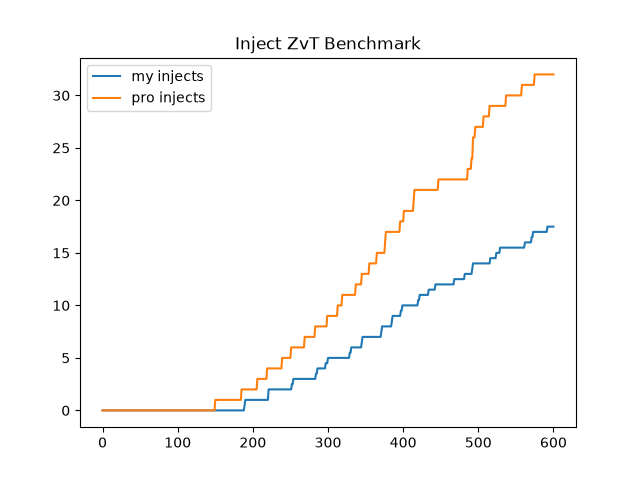
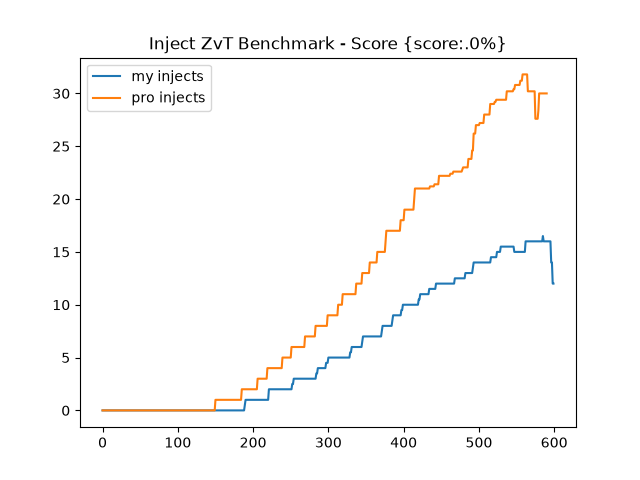
save

diff --git a/src/9_final_unspent_benchmark.py b/src/9_final_unspent_benchmark.py
@@ -2,49 +2,52 @@ from utils import *
 import pandas as pd
 import matplotlib.pyplot as plt
 
-my_df = local.read.csv("4_my_inject_transform", 'interim')
+my_df = local.read.csv("8_my_unspent_transform", 'interim')
 my_terran_df = my_df.query('opponent_race == "Terran"')
-my_terran_aggregated_data = my_terran_df.groupby('second')['inject_count'].quantile(0.50)
+my_terran_aggregated_data = my_terran_df.groupby('second')['unspent_amount'].quantile(0.50)
 my_terran_aggregated_data
 
-pro_df = local.read.csv("4_pro_inject_transform", 'interim')
+pro_df = local.read.csv("8_pro_unspent_transform", 'interim')
 pro_terran_df = pro_df.query('opponent_race == "Terran"')
-pro_terran_aggregated_data = pro_terran_df.groupby('second')['inject_count'].quantile(0.80)
+pro_terran_aggregated_data = pro_terran_df.groupby('second')['unspent_amount'].quantile(0.20)
 pro_terran_aggregated_data
 
 plt.plot(my_terran_aggregated_data)
 plt.plot(pro_terran_aggregated_data)
-plt.legend(['my injects', 'pro injects'])
-plt.title("Inject ZvT Benchmark")
-plt.savefig("../data/output/my_inject_zvt_benchmark.png")
+score = sum(pro_terran_aggregated_data) / sum(my_terran_aggregated_data)
+plt.legend(['my cumulative unspent resources', 'pro cumulative unspent resources'])
+plt.title(f"Unspent ZvT Benchmark - Score {score:.0%}")
+plt.savefig("../data/output/my_unspent_zvt_benchmark.png")
 plt.clf()
 
 my_zerg_df = my_df.query('opponent_race == "Zerg"')
-my_zerg_aggregated_data = my_zerg_df.groupby('second')['inject_count'].quantile(0.50)
+my_zerg_aggregated_data = my_zerg_df.groupby('second')['unspent_amount'].quantile(0.50)
 my_zerg_aggregated_data
 
 pro_zerg_df = pro_df.query('opponent_race == "Zerg"')
-pro_zerg_aggregated_data = pro_zerg_df.groupby('second')['inject_count'].quantile(0.80)
+pro_zerg_aggregated_data = pro_zerg_df.groupby('second')['unspent_amount'].quantile(0.20)
 pro_zerg_aggregated_data
 
 plt.plot(my_zerg_aggregated_data)
 plt.plot(pro_zerg_aggregated_data)
-plt.legend(['my injects', 'pro injects'])
-plt.title("Inject ZvZ Benchmark")
-plt.savefig("../data/output/my_inject_zvz_benchmark.png")
+score = sum(pro_zerg_aggregated_data) / sum(my_zerg_aggregated_data)
+plt.legend(['my cumulative unspent resources', 'pro cumulative unspent resources'])
+plt.title(f"Unspent ZvZ Benchmark - Score {score:.0%}")
+plt.savefig("../data/output/my_unspent_zvz_benchmark.png")
 plt.clf()
 
 my_protoss_df = my_df.query('opponent_race == "Protoss"')
-my_protoss_aggregated_data = my_protoss_df.groupby('second')['inject_count'].quantile(0.50)
+my_protoss_aggregated_data = my_protoss_df.groupby('second')['unspent_amount'].quantile(0.50)
 my_protoss_aggregated_data
 
 pro_protoss_df = pro_df.query('opponent_race == "Protoss"')
-pro_protoss_aggregated_data = pro_protoss_df.groupby('second')['inject_count'].quantile(0.80)
+pro_protoss_aggregated_data = pro_protoss_df.groupby('second')['unspent_amount'].quantile(0.20)
 pro_protoss_aggregated_data
 
 plt.plot(my_protoss_aggregated_data)
 plt.plot(pro_protoss_aggregated_data)
-plt.legend(['my injects', 'pro injects'])
-plt.title("Inject ZvP Benchmark")
-plt.savefig("../data/output/my_inject_zvp_benchmark.png")
+score = sum(pro_protoss_aggregated_data) / sum(my_protoss_aggregated_data)
+plt.legend(['my cumulative unspent resources', 'pro cumulative unspent resources'])
+plt.title(f"Unspent ZvP Benchmark - Score {score:.0%}")
+plt.savefig("../data/output/my_unspent_zvp_benchmark.png")
 plt.clf()

diff --git a/src/4_transform_injects.py b/src/4_transform_injects.py
@@ -12,7 +12,6 @@ dfs = []
 for game_number in pro_df.game_number.unique():
     pro_df_one_game = pro_df.query(f'game_number == {game_number}')
     input_data = list(pro_df_one_game.sort_values(by='inject_time')['inject_time'].values)
-    # print(pro_df_one_game)
 
     data_i = []
     cumulative_count = []
@@ -32,15 +31,14 @@ for game_number in pro_df.game_number.unique():
     pro_data_cumulative_df['inject_count'] = cumulative_count
     pro_data_cumulative_df['opponent_race'] = pro_df_one_game.iloc[0]['opponent_race']
     dfs.append(pro_data_cumulative_df)
-pro_df = pd.concat(dfs, axis='index', ignore_index=True)
-local.write.csv(pro_df, '4_pro_inject_transform')
+pro_df_output = pd.concat(dfs, axis='index', ignore_index=True)
+local.write.csv(pro_df_output, '4_pro_inject_transform')
 
 
 dfs = []
 for game_number in my_df.game_number.unique():
     my_df_one_game = my_df.query(f'game_number == {game_number}')
-    input_data = list(pro_df_one_game.sort_values(by='inject_time')['inject_time'].values)
-    # print(my_df_one_game)
+    input_data = list(my_df_one_game.sort_values(by='inject_time')['inject_time'].values)
 
     data_i = []
     cumulative_count = []
@@ -60,9 +58,5 @@ for game_number in my_df.game_number.unique():
     my_data_cumulative_df['inject_count'] = cumulative_count
     my_data_cumulative_df['opponent_race'] = my_df_one_game.iloc[0]['opponent_race']
     dfs.append(my_data_cumulative_df)
-my_df = pd.concat(dfs, axis='index', ignore_index=True)
-local.write.csv(my_df, '4_my_inject_transform')
-
-
-# plt.plot(pro_data_cumulative_df.second, pro_data_cumulative_df.inject_count)
-# plt.savefig('../data/interim/4_pro_plot.png', dpi=300)
+my_df_output = pd.concat(dfs, axis='index', ignore_index=True)
+local.write.csv(my_df_output, '4_my_inject_transform')

diff --git a/src/5_final_injects_benchmark.py b/src/5_final_injects_benchmark.py
@@ -14,8 +14,10 @@ pro_terran_aggregated_data
 
 plt.plot(my_terran_aggregated_data)
 plt.plot(pro_terran_aggregated_data)
+score = sum(my_terran_aggregated_data) / sum(pro_terran_aggregated_data)
+print(score)
 plt.legend(['my injects', 'pro injects'])
-plt.title("Inject ZvT Benchmark")
+plt.title(f"Inject ZvT Benchmark - Score {score:.0%}")
 plt.savefig("../data/output/my_inject_zvt_benchmark.png")
 plt.clf()
 
@@ -29,8 +31,10 @@ pro_zerg_aggregated_data
 
 plt.plot(my_zerg_aggregated_data)
 plt.plot(pro_zerg_aggregated_data)
+score = sum(my_zerg_aggregated_data) / sum(pro_zerg_aggregated_data)
+
 plt.legend(['my injects', 'pro injects'])
-plt.title("Inject ZvZ Benchmark")
+plt.title(f"Inject ZvZ Benchmark - Score {score:.0%}")
 plt.savefig("../data/output/my_inject_zvz_benchmark.png")
 plt.clf()
 
@@ -44,7 +48,9 @@ pro_protoss_aggregated_data
 
 plt.plot(my_protoss_aggregated_data)
 plt.plot(pro_protoss_aggregated_data)
+score = sum(my_protoss_aggregated_data) / sum(pro_protoss_aggregated_data)
+
 plt.legend(['my injects', 'pro injects'])
-plt.title("Inject ZvP Benchmark")
+plt.title(f"Inject ZvP Benchmark - Score {score:.0%}")
 plt.savefig("../data/output/my_inject_zvp_benchmark.png")
 plt.clf()

diff --git a/src/8_transform_unspent.py b/src/8_transform_unspent.py
@@ -62,7 +62,3 @@ for game_number in my_df.game_number.unique():
     dfs.append(my_data_cumulative_df)
 my_df = pd.concat(dfs, axis='index', ignore_index=True)
 local.write.csv(my_df, '8_my_unspent_transform')
-
-
-# plt.plot(pro_data_cumulative_df.second, pro_data_cumulative_df.inject_count)
-# plt.savefig('../data/interim/4_pro_plot.png', dpi=300)
